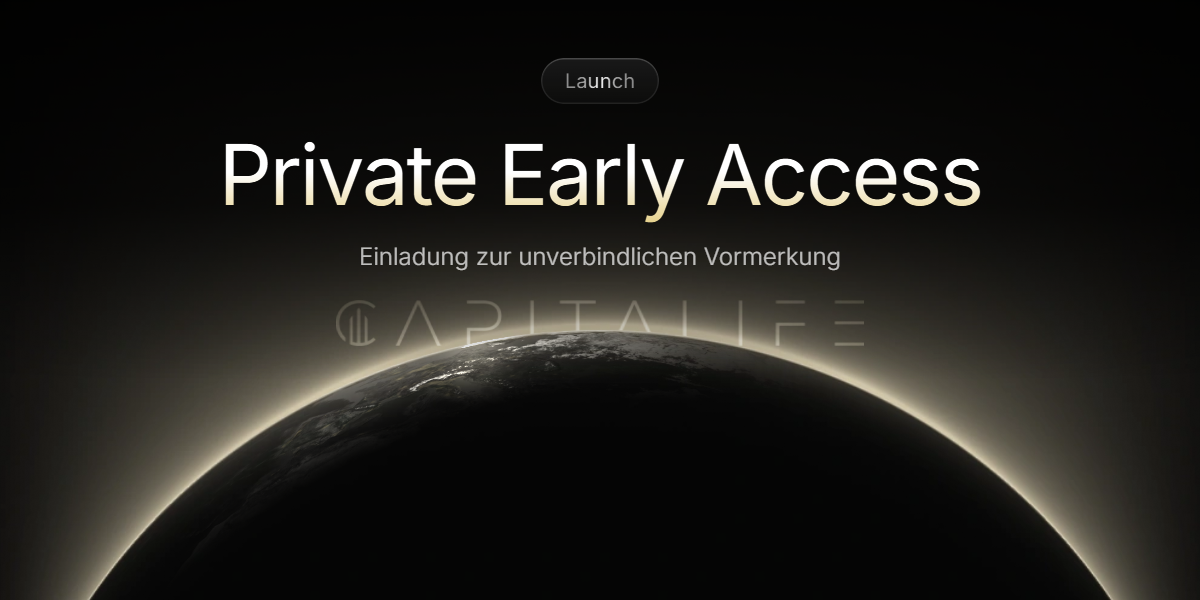
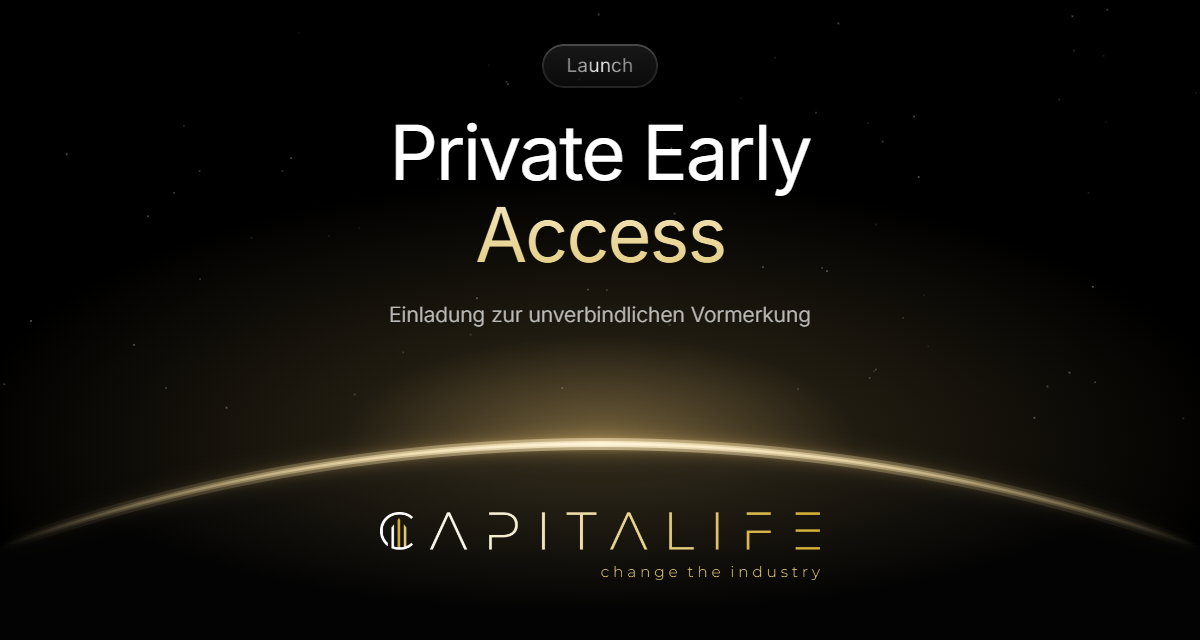
Early-Access-Mail: alter Horizont, Titel weiss/gold zweizeilig, einheitliches Hellgold, kleinerer Globus, für Handy angepasst

diff --git a/email/early-access.html b/email/early-access.html
@@ -7,74 +7,82 @@
 <meta name="supported-color-schemes" content="dark">
 <title>Capitalife – Early Access</title>
 <!--
-  Early-Access-Mail für die Warteliste, im dunklen Stil der Website (Schrift Inter, Hellgold als Akzent).
+  Early-Access-Mail für die Warteliste, im dunklen Stil der Website (Schrift Inter, Hellgold #ecdba6 als einheitlicher Akzent).
   Versand über IONOS Webmail: Datei im Browser öffnen, Strg+A, Strg+C, in "Neue E-Mail" einfügen.
   Empfänger immer in BCC. Bilder liegen auf der Website (public/email/).
   Text rechtlich geprüft (Agenten, 16.10.2026): keine Kapitalabfrage (nur später durch das regulierte Institut).
   Keine Rechtsberatung.
 -->
 <link href="https://fonts.googleapis.com/css2?family=Inter:wght@300;400;500;600&display=swap" rel="stylesheet">
+<style>
+  /* Handy: Globus ausblenden, Ränder kleiner */
+  @media only screen and (max-width: 620px) {
+    .globe { display: none !important; width: 0 !important; }
+    .pad { padding-left: 20px !important; padding-right: 20px !important; }
+    .outer { padding: 0 !important; }
+  }
+</style>
 </head>
 <body style="margin:0;padding:0;background:#050505;">
 <table role="presentation" width="100%" cellpadding="0" cellspacing="0" border="0" bgcolor="#050505" style="background:#050505;">
-<tr><td align="center" style="padding:24px 12px;">
+<tr><td align="center" class="outer" style="padding:24px 12px;">
 
-<table role="presentation" width="600" cellpadding="0" cellspacing="0" border="0" bgcolor="#000000" style="width:600px;max-width:600px;background:#000000;border-radius:18px;font-family:Inter,-apple-system,'SF Pro Text','Segoe UI',Helvetica,Arial,sans-serif;">
+<table role="presentation" width="100%" cellpadding="0" cellspacing="0" border="0" bgcolor="#000000" style="width:100%;max-width:600px;background:#000000;border-radius:18px;font-family:Inter,-apple-system,'SF Pro Text','Segoe UI',Helvetica,Arial,sans-serif;">
 
   <!-- Kopf -->
   <tr><td style="padding:0;border-radius:18px 18px 0 0;">
-    <img src="https://capitalife-website.vercel.app/email/header.png" width="600" height="300" alt="Capitalife – Private Early Access – Einladung zur unverbindlichen Vormerkung" style="display:block;width:600px;height:300px;border:0;border-radius:18px 18px 0 0;">
+    <img src="https://capitalife-website.vercel.app/email/header.png" width="600" height="320" alt="Capitalife – Private Early Access – Einladung zur unverbindlichen Vormerkung" style="display:block;width:100%;max-width:600px;height:auto;border:0;border-radius:18px 18px 0 0;">
   </td></tr>
 
   <!-- 1 Eintragung -->
-  <tr><td style="padding:10px 24px 0;">
-    <table role="presentation" width="552" cellpadding="0" cellspacing="0" border="0" bgcolor="#0a0a0a" style="width:552px;background:#0a0a0a;border:1px solid #1c1c1c;border-radius:16px;">
+  <tr><td class="pad" style="padding:10px 24px 0;">
+    <table role="presentation" width="100%" cellpadding="0" cellspacing="0" border="0" bgcolor="#0a0a0a" style="width:100%;background:#0a0a0a;border:1px solid #1c1c1c;border-radius:16px;">
       <tr>
-        <td valign="middle" style="padding:34px 8px 34px 30px;">
+        <td valign="middle" style="padding:34px 4px 34px 30px;">
           <img src="https://capitalife-website.vercel.app/email/icon-mail-gold.png" width="28" height="28" alt="" style="display:block;border:0;">
           <p style="margin:16px 0 0;font-size:20px;line-height:1.3;color:#ffffff;font-weight:400;letter-spacing:-0.2px;">Danke für Ihre Eintragung</p>
           <p style="margin:12px 0 0;font-size:14px;line-height:1.65;color:#a8a8a8;font-weight:300;">Capitalife bereitet ein Angebot vor: Vermögensverwaltung durch ein BaFin-beaufsichtigtes Wertpapierinstitut, auf Ihrem eigenen Depot.</p>
           <p style="margin:10px 0 0;font-size:12.5px;line-height:1.6;color:#7a7a7a;font-weight:300;">Capitalife selbst hat keine BaFin-Erlaubnis und erbringt keine Finanzdienstleistungen.</p>
-          <p style="margin:16px 0 0;font-size:12.5px;line-height:1.5;color:#e2ca7a;font-weight:500;">Unverbindlich · Keine Kapitalzusage · Keine Einzahlung</p>
+          <p style="margin:16px 0 0;font-size:12.5px;line-height:1.5;color:#ecdba6;font-weight:500;"><span>Unverbindlich · Keine Kapitalzusage · Keine Einzahlung</span></p>
         </td>
-        <td valign="middle" align="right" width="200" style="width:200px;padding:0;">
-          <img src="https://capitalife-website.vercel.app/email/globe-dark.png" width="200" height="280" alt="" style="display:block;width:200px;height:280px;border:0;border-radius:0 16px 16px 0;">
+        <td valign="middle" align="right" width="150" class="globe" style="width:150px;padding:0;">
+          <img src="https://capitalife-website.vercel.app/email/globe-dark.png" width="150" height="210" alt="" style="display:block;width:150px;height:210px;border:0;border-radius:0 16px 16px 0;">
         </td>
       </tr>
     </table>
   </td></tr>
 
   <!-- 2 Early Access -->
-  <tr><td style="padding:14px 24px 0;">
-    <table role="presentation" width="552" cellpadding="0" cellspacing="0" border="0" bgcolor="#0a0a0a" style="width:552px;background:#0a0a0a;border:1px solid #1c1c1c;border-radius:16px;">
+  <tr><td class="pad" style="padding:14px 24px 0;">
+    <table role="presentation" width="100%" cellpadding="0" cellspacing="0" border="0" bgcolor="#0a0a0a" style="width:100%;background:#0a0a0a;border:1px solid #1c1c1c;border-radius:16px;">
       <tr><td style="padding:32px 30px;">
         <img src="https://capitalife-website.vercel.app/email/icon-info-gold.png" width="28" height="28" alt="" style="display:block;border:0;">
         <p style="margin:16px 0 0;font-size:20px;line-height:1.3;color:#ffffff;font-weight:400;letter-spacing:-0.2px;">Was Early Access bedeutet</p>
         <p style="margin:12px 0 0;font-size:14px;line-height:1.65;color:#a8a8a8;font-weight:300;">Sie erfahren früh vom Start und den nächsten Schritten. Sobald alles regulatorisch und technisch steht, melden wir uns.</p>
-        <p style="margin:16px 0 0;font-size:12.5px;line-height:1.5;color:#e2ca7a;font-weight:500;">Früh informiert · Vollständig unverbindlich</p>
+        <p style="margin:16px 0 0;font-size:12.5px;line-height:1.5;color:#ecdba6;font-weight:500;">Früh informiert · Vollständig unverbindlich</p>
       </td></tr>
     </table>
   </td></tr>
 
   <!-- 3 Bestätigen -->
-  <tr><td style="padding:14px 24px 0;">
-    <table role="presentation" width="552" cellpadding="0" cellspacing="0" border="0" bgcolor="#0a0a0a" style="width:552px;background:#0a0a0a;border:1px solid #1c1c1c;border-radius:16px;">
+  <tr><td class="pad" style="padding:14px 24px 0;">
+    <table role="presentation" width="100%" cellpadding="0" cellspacing="0" border="0" bgcolor="#0a0a0a" style="width:100%;background:#0a0a0a;border:1px solid #1c1c1c;border-radius:16px;">
       <tr><td style="padding:32px 30px;">
-        <img src="https://capitalife-website.vercel.app/email/icon-check-dark.png" width="28" height="28" alt="" style="display:block;border:0;">
+        <img src="https://capitalife-website.vercel.app/email/icon-check-gold.png" width="28" height="28" alt="" style="display:block;border:0;">
         <p style="margin:16px 0 0;font-size:20px;line-height:1.3;color:#ffffff;font-weight:400;letter-spacing:-0.2px;">Interesse bestätigen <span style="color:#6f6f6f;font-size:15px;">(freiwillig)</span></p>
         <p style="margin:12px 0 0;font-size:14px;line-height:1.65;color:#a8a8a8;font-weight:300;">Antworten Sie auf diese E-Mail mit Ihrem Namen und, wenn Sie einen Anruf wünschen, Ihrer Telefonnummer.</p>
         <table role="presentation" width="100%" cellpadding="0" cellspacing="0" border="0" style="margin-top:16px;">
-          <tr><td style="border-left:2px solid #e2ca7a;padding:4px 0 4px 16px;font-size:14px;line-height:1.65;color:#d6d6d6;font-weight:300;">„Ich bestätige mein unverbindliches Interesse am Capitalife Early Access und bin einverstanden, von der Capitalife GbR per E-Mail und, falls angegeben, telefonisch kontaktiert zu werden.“</td></tr>
+          <tr><td style="border-left:2px solid #ecdba6;padding:4px 0 4px 16px;font-size:14px;line-height:1.65;color:#d6d6d6;font-weight:300;">„Ich bestätige mein unverbindliches Interesse am Capitalife Early Access und bin einverstanden, von der Capitalife GbR per E-Mail und, falls angegeben, telefonisch kontaktiert zu werden.“</td></tr>
         </table>
         <p style="margin:14px 0 0;font-size:12.5px;line-height:1.6;color:#7a7a7a;font-weight:300;">Bitte keine Angaben zu Vermögen oder Anlagebeträgen. Solche Angaben erfragt später nur das zuständige, BaFin-beaufsichtigte Institut.</p>
-        <p style="margin:16px 0 0;font-size:12.5px;line-height:1.6;color:#e2ca7a;font-weight:500;">Keine Einzahlung · Kein Vertrag · Kein Anspruch auf Teilnahme</p>
+        <p style="margin:16px 0 0;font-size:12.5px;line-height:1.6;color:#ecdba6;font-weight:500;">Keine Einzahlung · Kein Vertrag · Kein Anspruch auf Teilnahme</p>
       </td></tr>
     </table>
   </td></tr>
 
   <!-- Fuss -->
   <tr><td style="padding:34px 54px 44px;">
-    <p style="margin:0;font-size:13px;line-height:1.65;color:#ffffff;font-weight:400;">Capitalife GbR<br><span style="color:#8a8a8a;font-weight:300;">Jeroen Göhlert · Jan Luca Manfré<br>Am Königsweg 3A, 48599 Gronau-Epe</span><br><a href="mailto:info@capitalife-invest.de" style="color:#e2ca7a;text-decoration:none;">info@capitalife-invest.de</a></p>
+    <p style="margin:0;font-size:13px;line-height:1.65;color:#ffffff;font-weight:400;">Capitalife GbR<br><span style="color:#8a8a8a;font-weight:300;">Jeroen Göhlert · Jan Luca Manfré<br>Am Königsweg 3A, 48599 Gronau-Epe</span><br><a href="mailto:info@capitalife-invest.de" style="color:#ecdba6;text-decoration:none;">info@capitalife-invest.de</a></p>
     <p style="margin:16px 0 0;font-size:12px;line-height:1.6;color:#8a8a8a;">Keine weiteren E-Mails? Antworten Sie mit „Abmelden“.</p>
 
     <table role="presentation" width="100%" cellpadding="0" cellspacing="0" border="0" style="margin-top:26px;"><tr><td style="border-top:1px solid #1c1c1c;font-size:0;line-height:0;">&nbsp;</td></tr></table>
